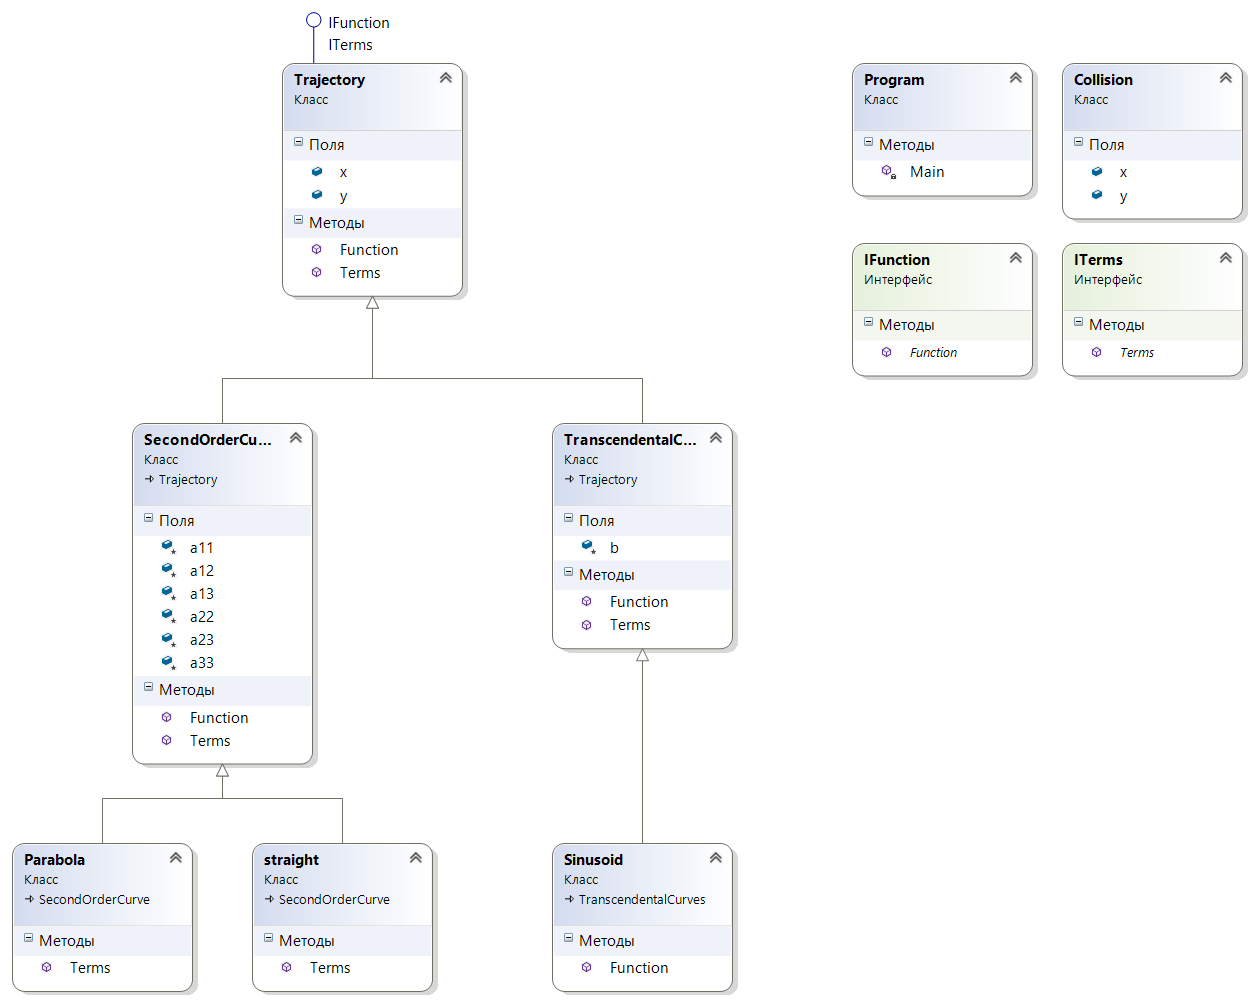
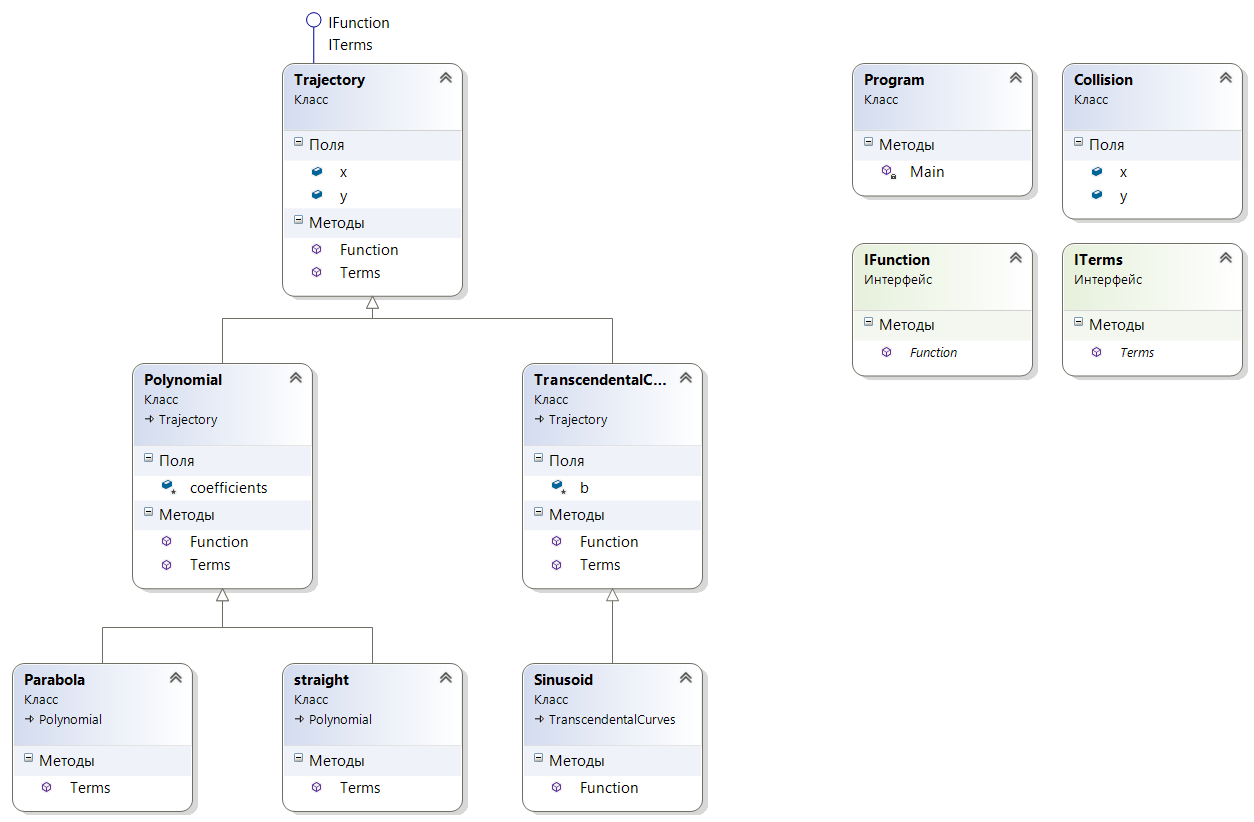
Lab

diff --git a/Laba1/Laba1/Program.cs b/Laba1/Laba1/Program.cs
@@ -28,27 +28,24 @@ namespace Trajectory
         }
     }
 
-    class SecondOrderCurve : Trajectory  //Кривая второго порядка, имеет вид: a{11}x^2 + a{22}y^2 + 2a{12}xy + 2a{13}x + 2a{23}y + a{33}=0,
+    class Polynomial : Trajectory  //Многочлен n-ого порядка. Имеет вид c0 + c1*x + c2*(x^2) + ...
     {
-        protected double a11; //параметры для задания кривой второго порядка, они могут иметь разные значения, взависимости от функции
-        protected double a22;
-        protected double a12;
-        protected double a13;
-        protected double a23;
-        protected double a33;
-
-        public void Function() //В данном методе находим значения функции
+        protected double[] coefficients; //В массиве содержатся коэффициенты для определение многочлена той или иной степени
+        //В данном методе определяется уравнение для нахождения значений фукнции. 
+        //Например: если в массиве коэффициентов будет три элемента, значит степень многочлена будет второй. 
+        //Следовательно мы имеем дело с параболой
+        public void Function() 
         {
         }
 
-        public void Terms() //Указываем условия для существования кривой второго порядка
+        public void Terms() //Указываем условия для существования того или иного многочлена. Например: Коэффициенты должны быть действительными числами.
         {
         }
     }
 
 
     class Parabola //Парабола
-          : SecondOrderCurve
+          : Polynomial
     {
         public void Terms() // В этом методе задаются условия определения функции. 
         {
@@ -56,12 +53,11 @@ namespace Trajectory
     }
 
     class straight  //Прямая
-        : SecondOrderCurve
+        : Polynomial
     {
         public void Terms() // В этом методе задаются условия определения функции. 
         {
         }
-
     }
 
     class Сollision //Столкновение
@@ -70,7 +66,7 @@ namespace Trajectory
         public int y;
     }
 
-    class TranscendentalCurves : Trajectory  // рансцендентные кривые
+    class TranscendentalCurves : Trajectory  // Трансцендентные кривые
     {
         protected double b; // свободный член для синусоиды
 

diff --git a/Laboratornaya0/Laboratornaya0/Program2.cs b/Laboratornaya0/Laboratornaya0/Program2.cs
@@ -26,13 +26,12 @@ namespace Objects1
     class Polygon : IDraw
     {
         protected Point[] Points; //array of points
-        protected int heaps; //the number of vertices
         public int Heaps //properties, which specifies the conditions the number of vertices
         {
             get
             {
-                heaps = Points.Length;
-                return heaps; 
+                Heaps = Points.Length;
+                return Heaps; 
             }
             set
             {   }
@@ -88,7 +87,7 @@ namespace Objects1
     }
 
 
-    class DrawObjects
+    class OutputManagement
     {         
         public static void Iniciallization(IDraw[] arrayofobjects) //Method for work with object
         {
@@ -104,14 +103,14 @@ namespace Objects1
     {
         static void Main()
         {
-            Point[] Points1 = { new Point(11, 22), new Point(33, 44), new Point(55, 66) }; //Initialize an array of points
+            Point[] Points1 = { new Point(11, 22), new Point(33, 44), new Point(55, 66)}; //Initialize an array of points
             Point[] Points = { new Point(1, 2), new Point(3, 4), new Point(5, 6), new Point(7, 8), new Point(9, 10) };
             Point Point1 = new Point(12, 0);
 
             IDraw[] arrayofobjects = { new Polygon(Points), new Triangle(Points1), new Text(Point1, "Give me life, give me love \nScarlet angel from above \nNot so low, not so high \nKeep it perfectly disguised") };
             
             Console.WriteLine("Через метод вывода массива на экран:");
-            DrawObjects.Iniciallization(arrayofobjects);
+            OutputManagement.Iniciallization(arrayofobjects);
             Console.ReadKey();
         }
     }
